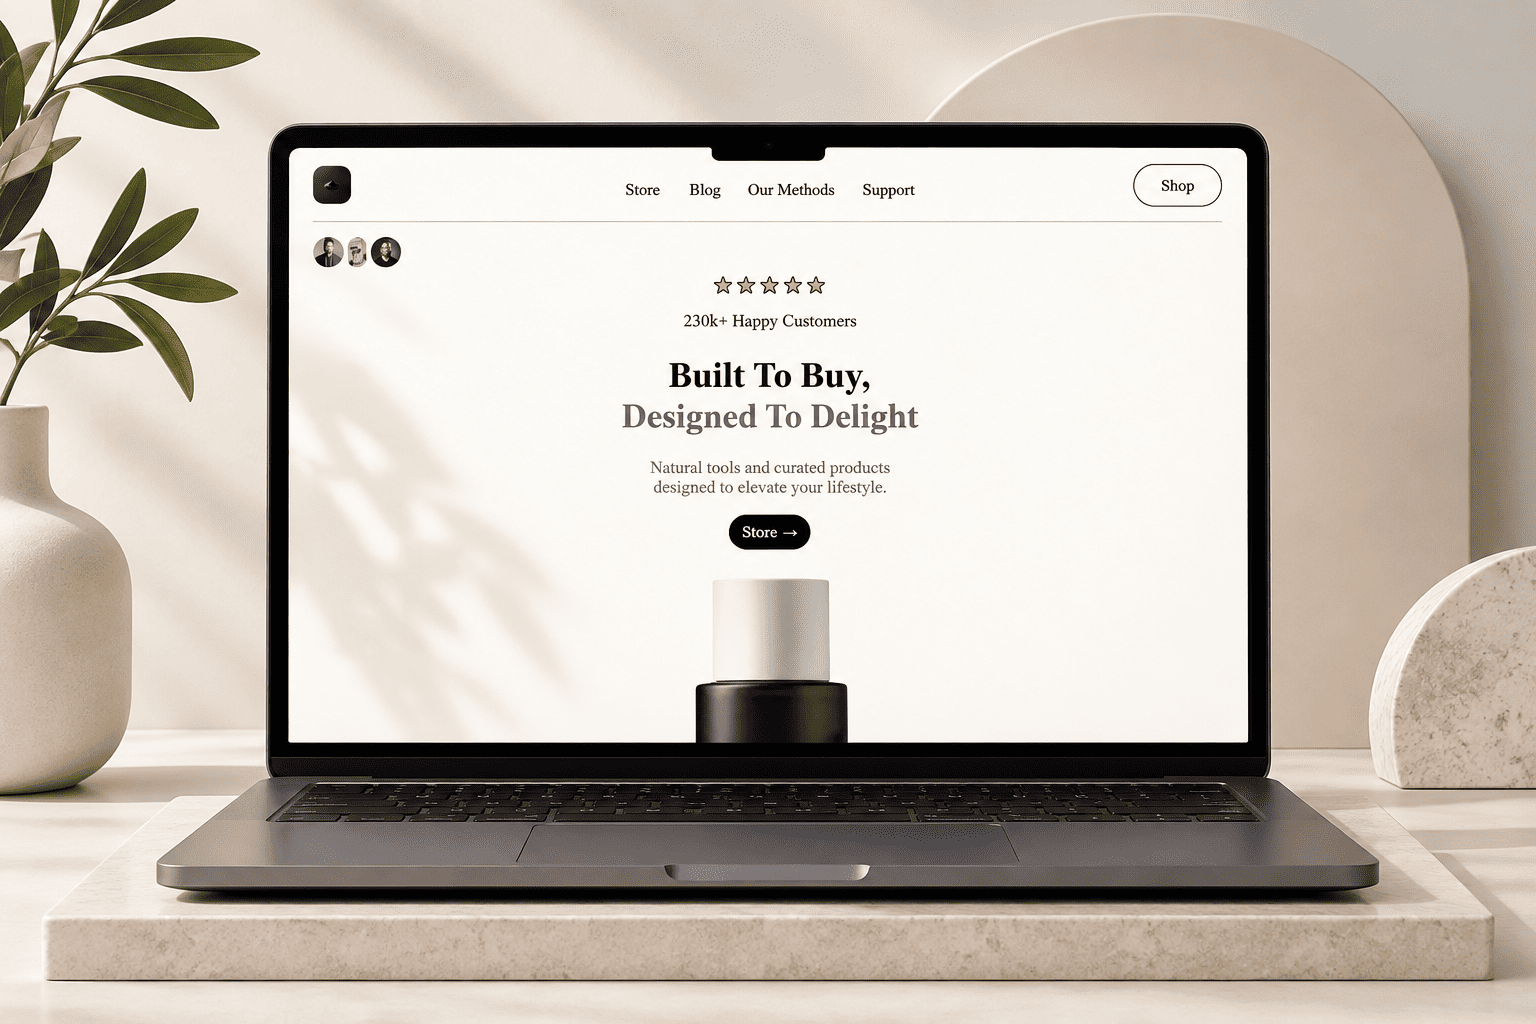
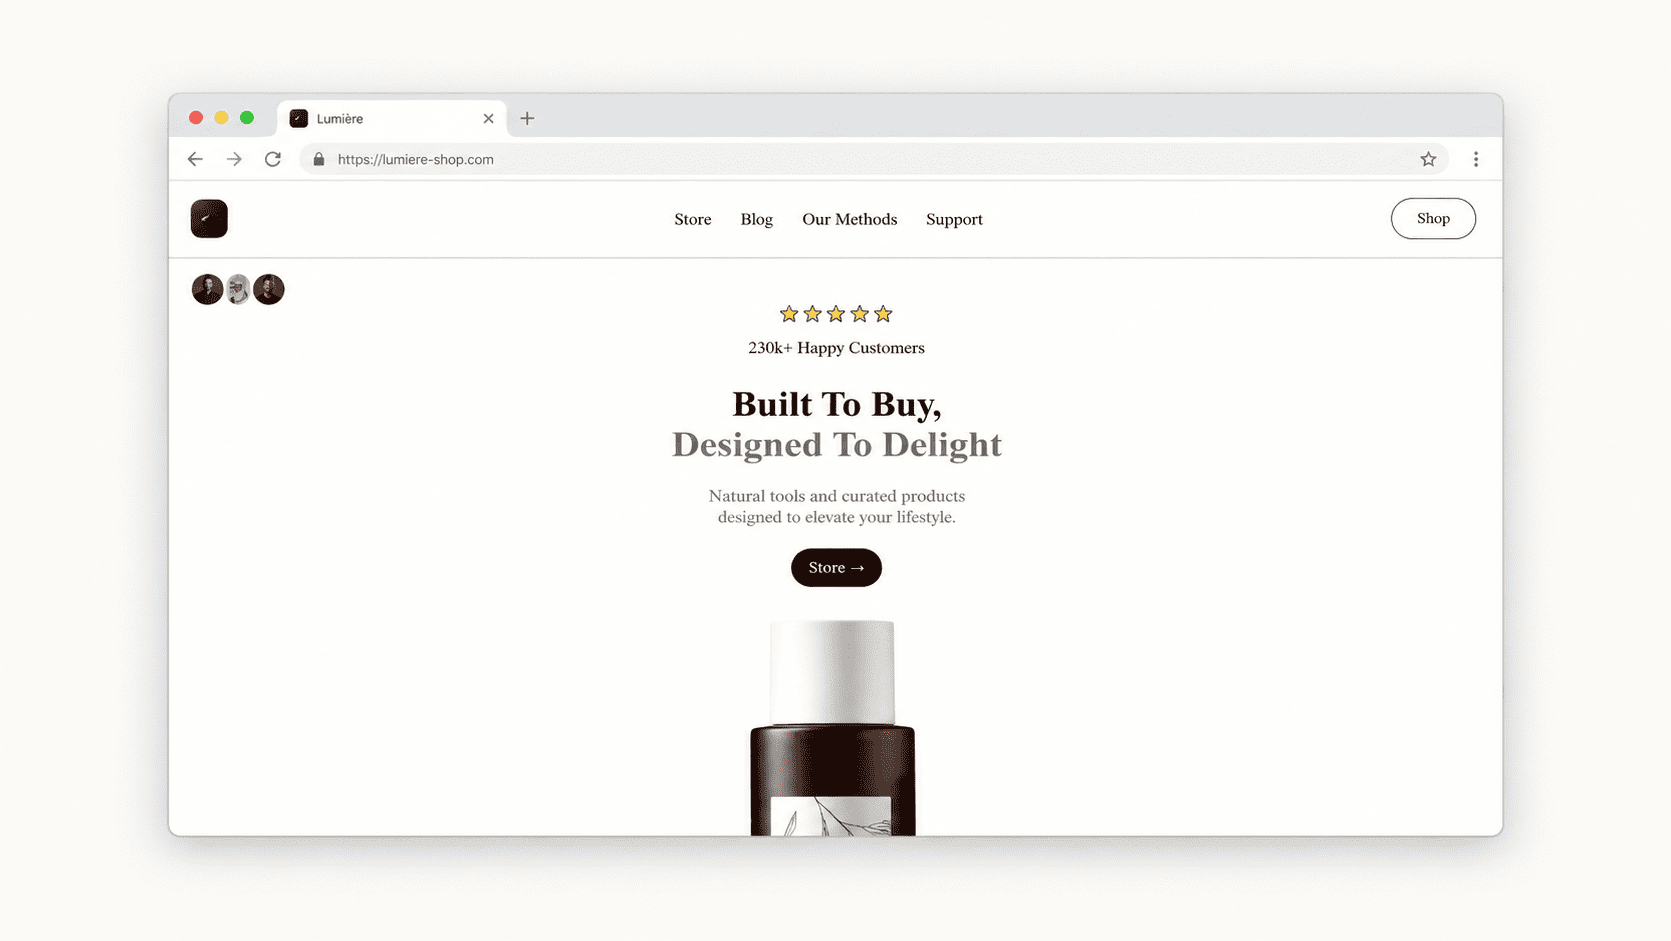
Update project screenshots and add Axen group project

diff --git a/src/components/SelectedWorks.jsx b/src/components/SelectedWorks.jsx
@@ -1,4 +1,3 @@
-
 import React, { useState } from "react";
 import { motion } from "framer-motion";
 import { Link } from "react-router-dom";
@@ -7,6 +6,7 @@ import netlinks from "../assets/image/netlinks.png";
 import zohco from "../assets/image/zohco.png";
 import python from "../assets/image/python.png";
 import nexor from "../assets/image/nexor.png";
+import AxenLtd from "../assets/image/AxenLtd.png";
 import education from "../assets/image/education.png";
 import mentor from "../assets/image/mentor.png";
 
@@ -61,19 +61,20 @@ const projects = [
     technologies: ["React", "Tailwind CSS", "Framer Motion"],
   },
   {
-    title: "EduLearn Website",
-    image: education,
-    link: "https://github.com/shaziasultani/educational-website1",
-    linkLabel: "View repository ↗",
+    title: "Axen Ltd",
+    image: AxenLtd,
+    link: "https://shaziasultani.github.io/Bootcamp-three-/",
     description:
-      "An educational website designed to support students in their learning journey, featuring course exploration, educational resources, and an accessible interface for discovering learning opportunities.",
-    category: "Educational Website",
+      "A collaborative business website developed as a group project during our bootcamp, featuring a professional digital presence and a clear presentation of business services.",
+    category: "Group Project",
     highlights: [
-      "Course discovery and learning resources",
-      "Student-focused interface and navigation",
+      "Collaborative website development during bootcamp",
+      "Professional business-focused design",
+      "Responsive layout and interactive user interface",
     ],
-    technologies: ["HTML", "CSS", "JavaScript"],
+    technologies: ["React.js", "React Router", "Tailwind CSS"],
   },
+
   {
     title: "Mentor Cards Website",
     image: mentor,
@@ -259,7 +260,7 @@ export default function SelectedWorks() {
             </motion.div>
           </div>
 
-          {/* Project preview - wider image with object-cover */}
+          {/* Project preview */}
           <motion.a
             variants={itemVariants}
             href={project.link}

diff --git a/src/components/Projects.jsx b/src/components/Projects.jsx
@@ -1,4 +1,3 @@
-
 import React from "react";
 import { motion } from "framer-motion";
 import { Link } from "react-router-dom";
@@ -13,10 +12,7 @@ import realEast from "../assets/image/real-east.png";
 import project7 from "../assets/image/reb.png";
 import digital from "../assets/image/digital.png";
 import mentor from "../assets/image/mentor.png";
-
-import netlinks from "../assets/image/netlinks.png";
-import zohco from "../assets/image/zohco.png";
-import nexor from "../assets/image/nexor.png";
+import education from "../assets/image/education.png";
 
 const projects = [
     // ================= WEB DEVELOPMENT PROJECTS =================
@@ -45,12 +41,12 @@ const projects = [
         href: "https://6a7caf65c0a3c2c8916d303d--stalwart-kangaroo-fe934c.netlify.app/",
     },
     {
-        img: project1, // Replace with the original blog screenshot if different
-        title: "Responsive Blog Website",
-        category: "Web Development",
+        img: education,
+        title: "EduLearn Website",
+        category: "Educational Website",
         description:
-            "A responsive blog website designed to present articles and content in a clean, readable layout across desktop, tablet, and mobile devices.",
-        href: "YOUR_ORIGINAL_RESPONSIVE_BLOG_WEBSITE_LINK",
+            "An educational website designed to support students in their learning journey, featuring course exploration, educational resources, and an accessible interface for discovering learning opportunities.",
+        href: "https://github.com/shaziasultani/educational-website1",
     },
 
     // ================= PYTHON PROJECTS =================
